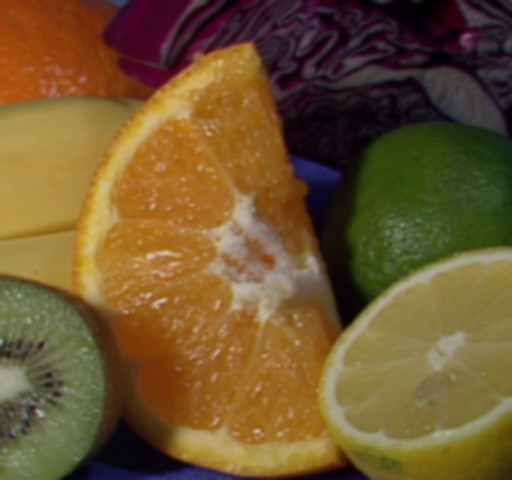
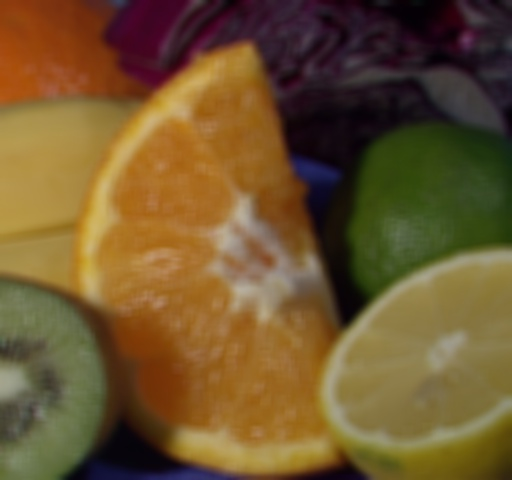
changed blur.jpg

diff --git a/OpenCVKadai/problem1_1.cpp b/OpenCVKadai/problem1_1.cpp
@@ -1,7 +1,7 @@
 #include <opencv2/opencv.hpp>
 #include <stdio.h>
 
-#define FLAG 0 // (0: direct access / 1: built-in function)
+#define FLAG 1 // (0: direct access / 1: built-in function)
 #define BLUR_LEVEL 10
 
 
@@ -43,7 +43,7 @@ int main(int argc, char *argv[])
   cv::namedWindow("edge image", 1);
 
   // 6. show images
-  cv::imshow("original image", input);
+  cv::imshow("Original image", input);
   cv::imshow("gray image", gray);
   cv::imshow("blur image", blur);
   cv::imshow("edge image", edge);
@@ -108,7 +108,7 @@ void convertColorToBlur(cv::Mat &input, cv::Mat &blur){
 #if FLAG // use built-in function
 
   //4. convert color to blur
-  cv::GaussianBlur(input, blur, cv::Size(9,7), 0);
+  cv::GaussianBlur(input, blur, cv::Size(11,11), 10, 10);
  
 #else
 
